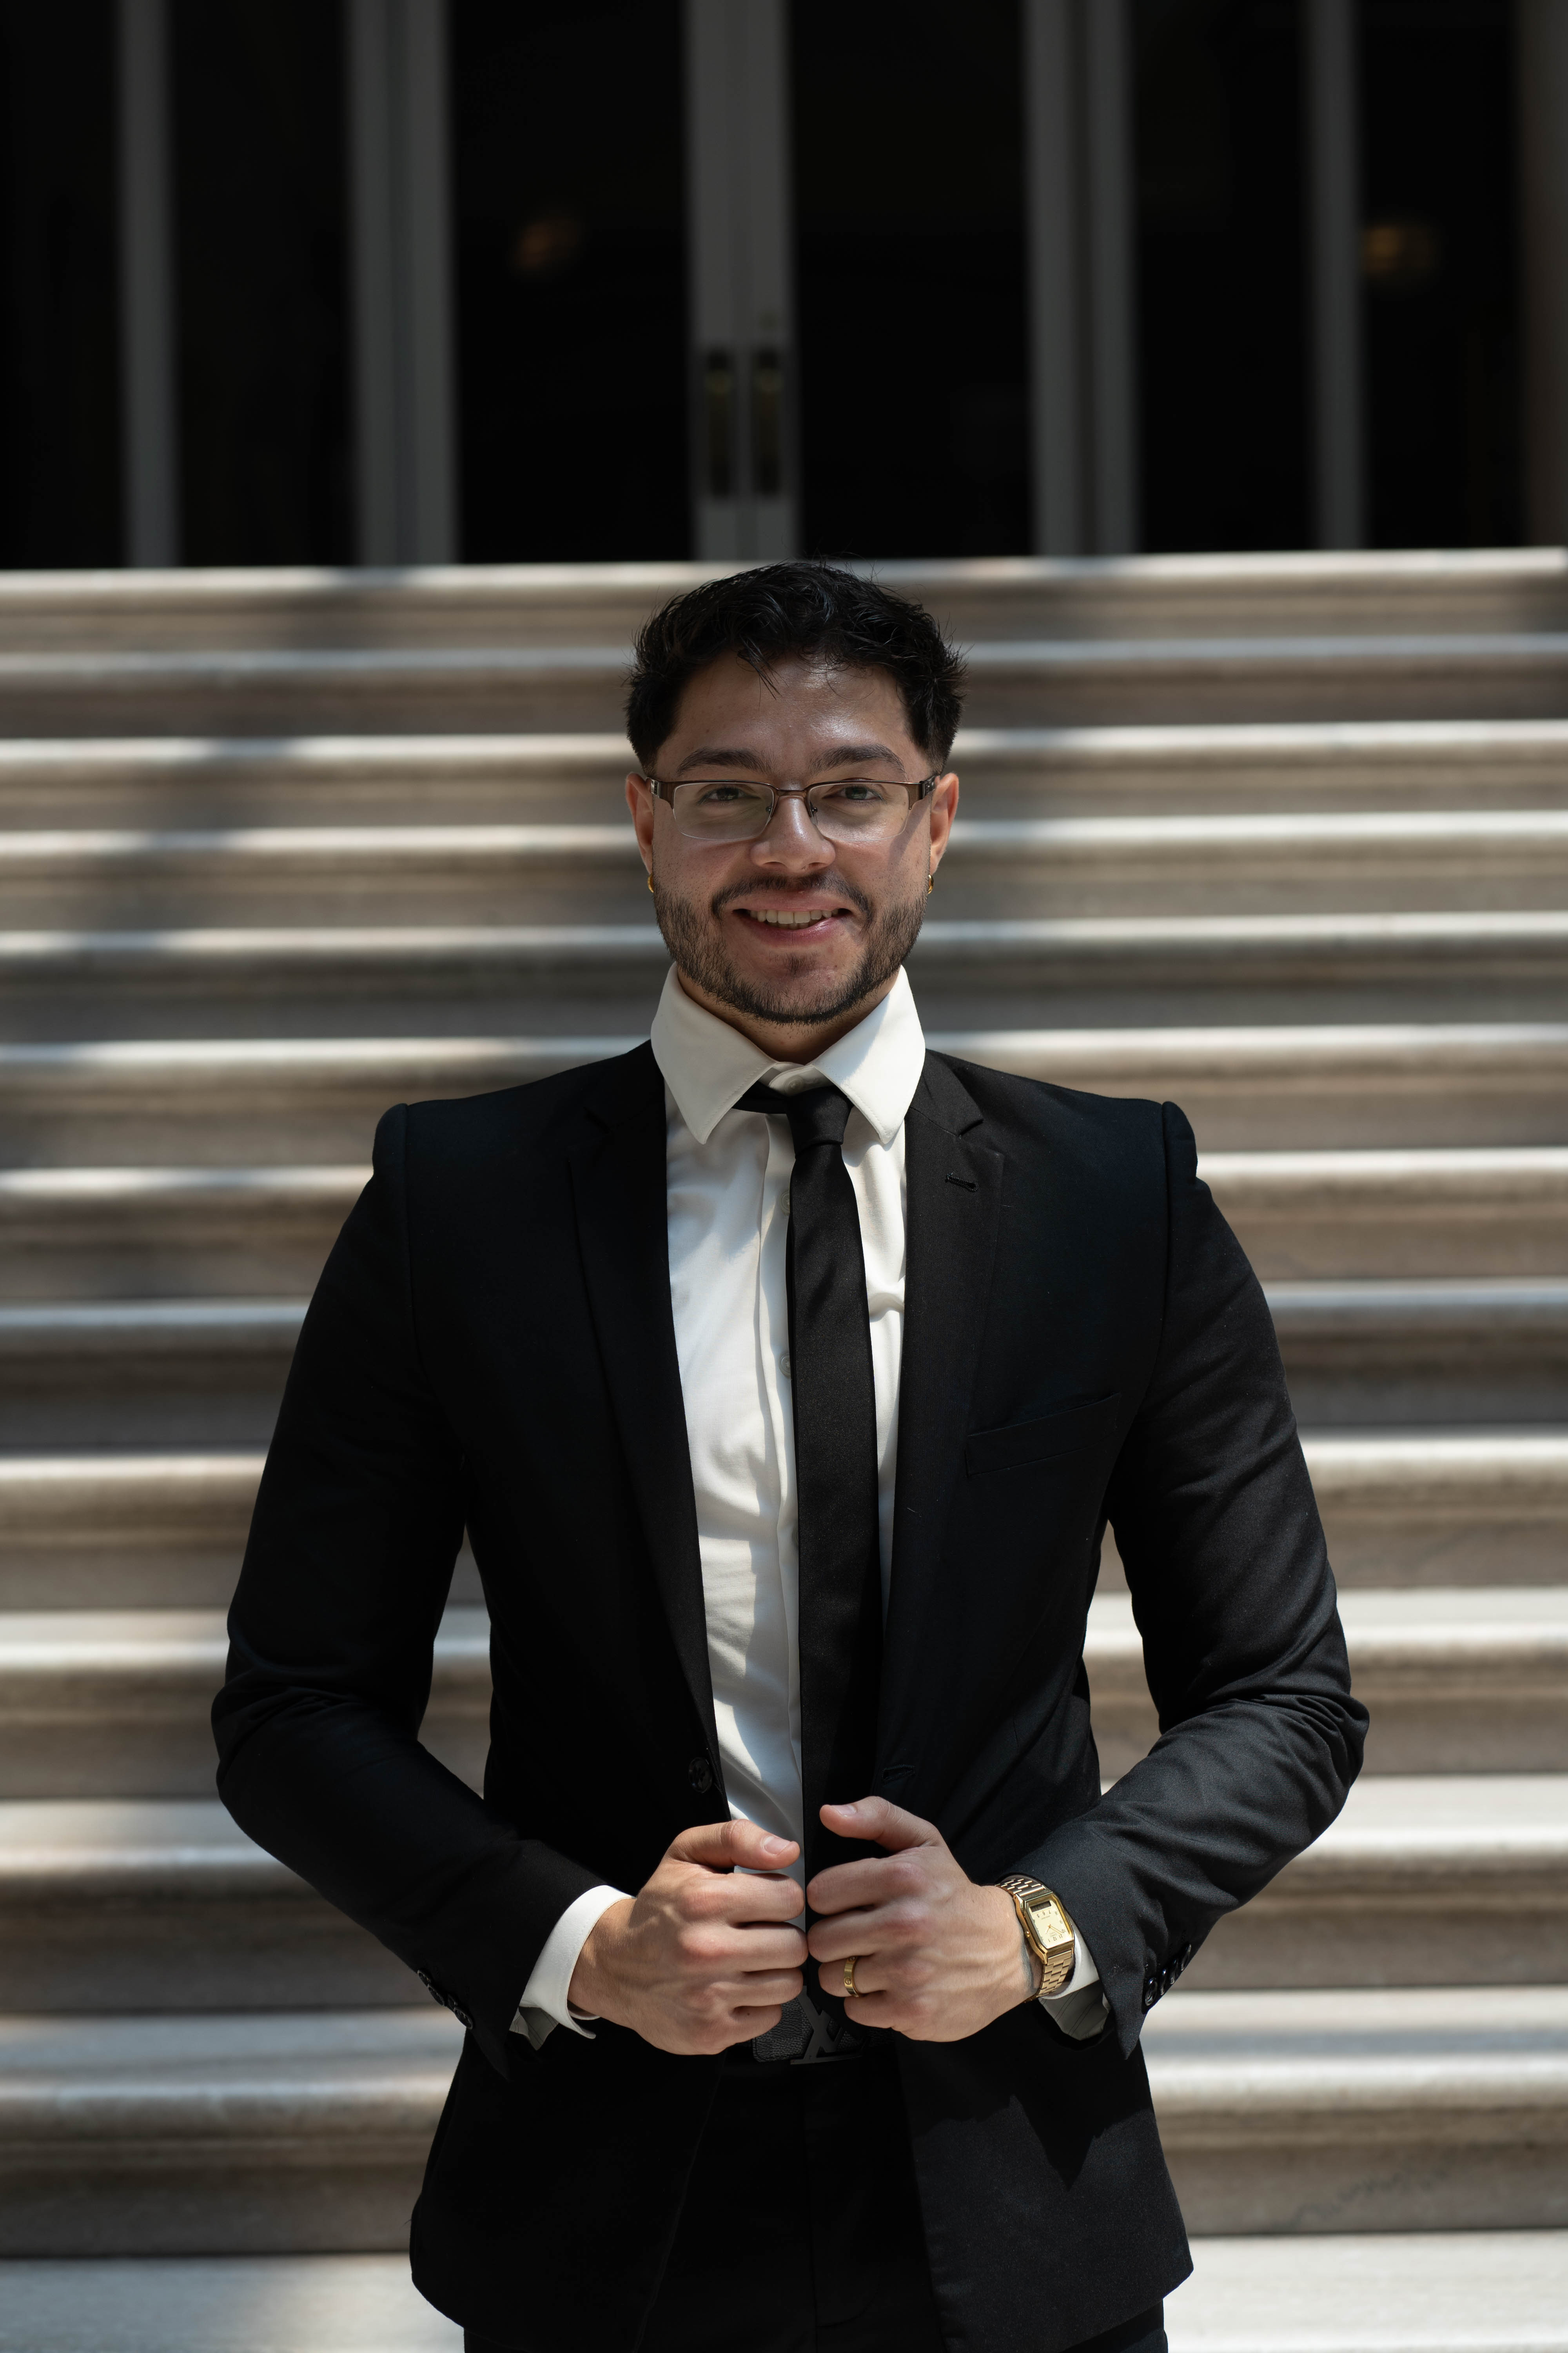
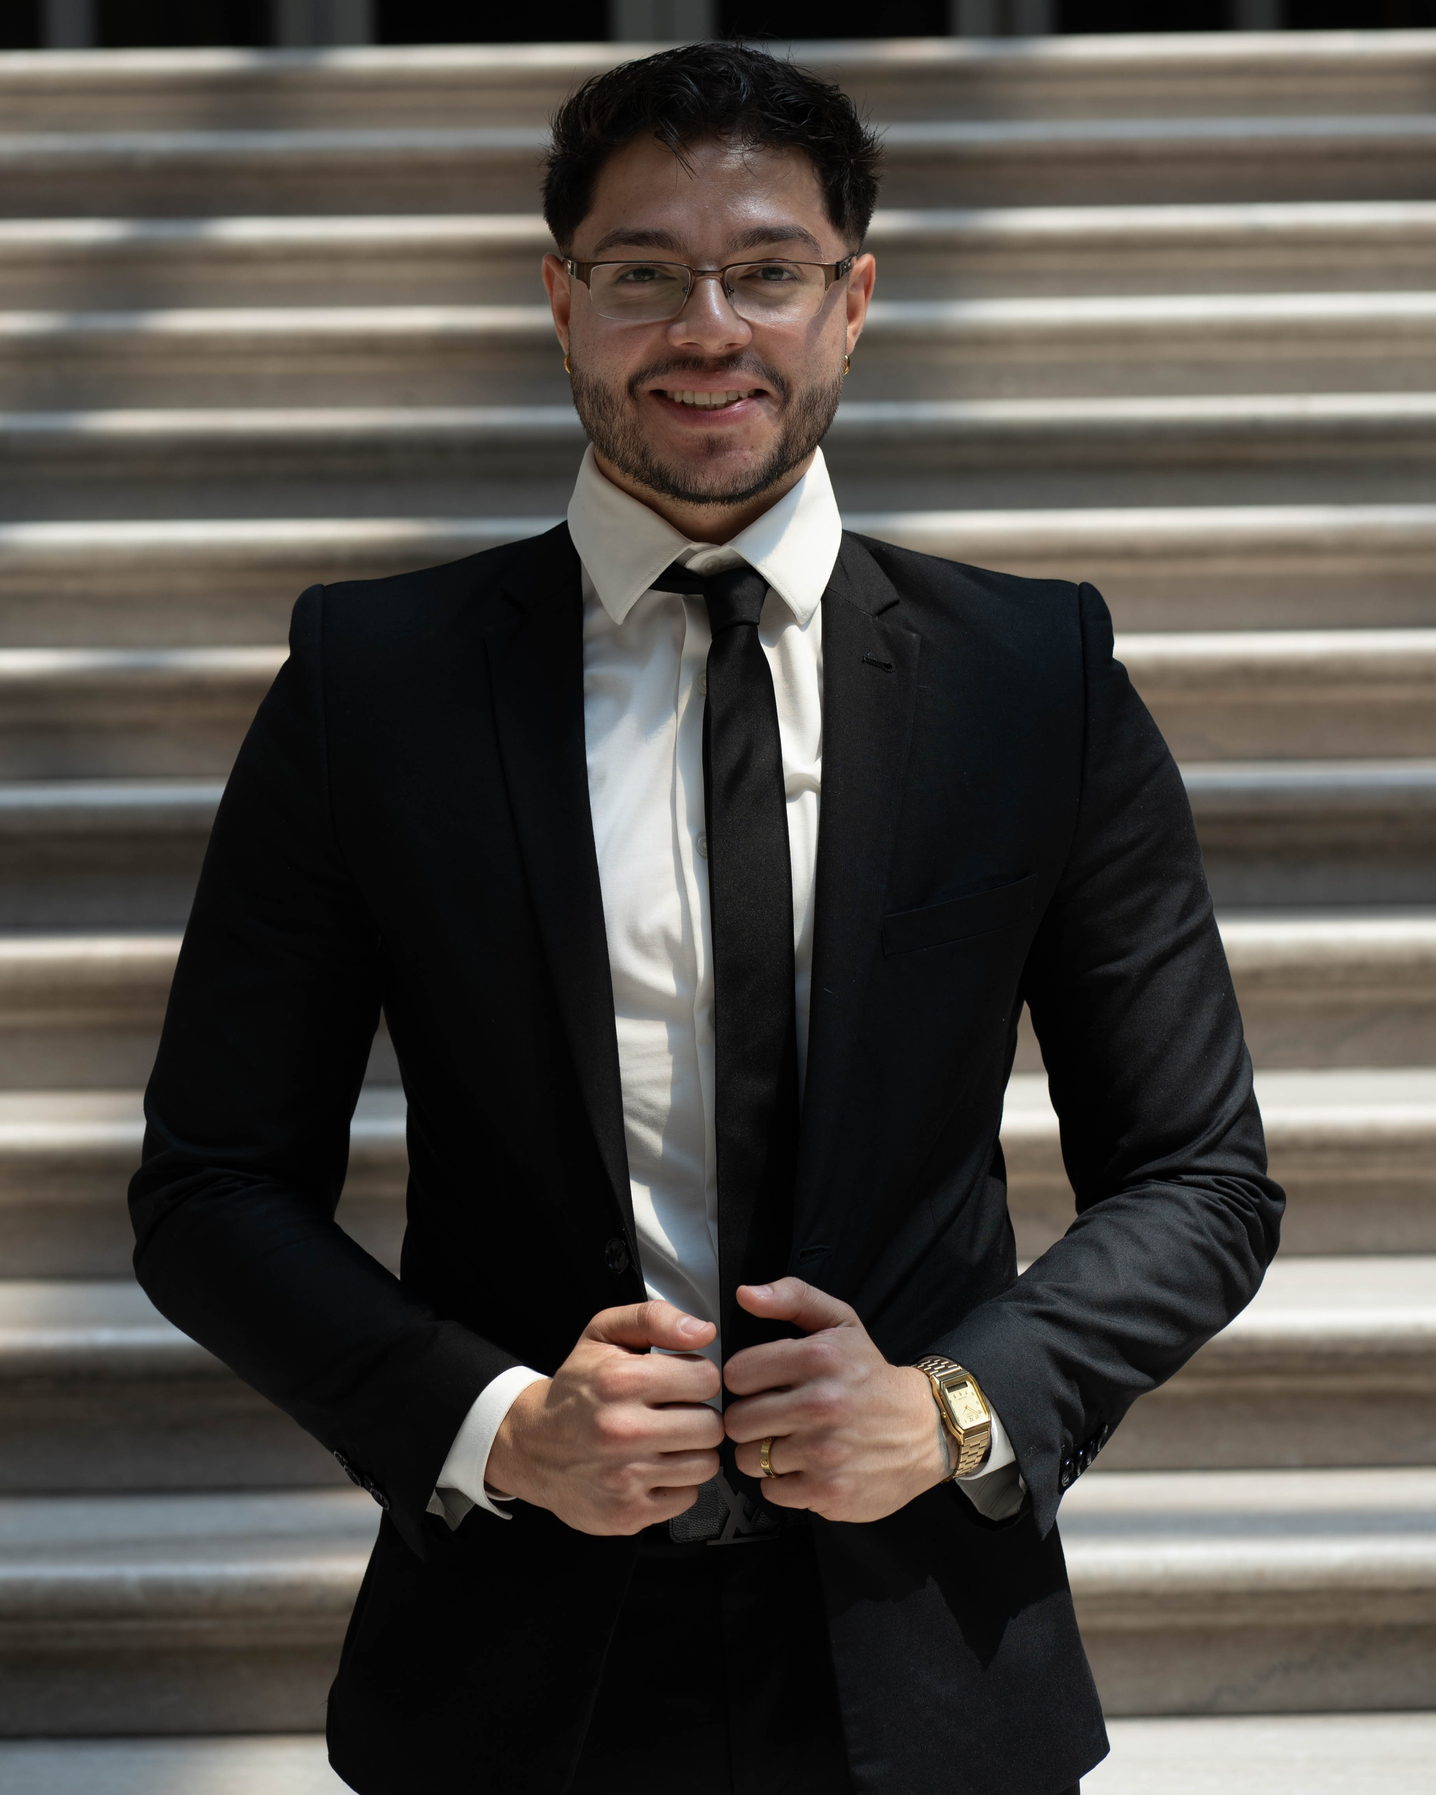
resized individual images and added Github link

diff --git a/index.html b/index.html
@@ -53,35 +53,46 @@
 
         <section class="Members">
             <h1>Members</h1>
+
+            <br><br>
+            <!-- Row 1 -->
             <div class="Members-Data">
                 <div class="Team-Member">
-                    <!-- Team Member 1-->
-                    <h2>Julie Dosher</h2>
-                    <a href="https://lemon-stone-0f92af610.3.azurestaticapps.net/" target="_blank">Personal Site</a>
+                    <h2>Jahi</h2>
+                    <img class="personal_image" src="" alt="">
+                    <a href="" target="_blank">Personal Site</a>
                 </div>
                 <div class="Team-Member">
-                    <!-- Team Member 2-->
                     <h2>Jose Montes De Oca Morfin</h2>
                     <img class="personal_image" src="images/jose.jpg" alt="Jose's picture">
                     <a href="https://josemdo.github.io/Getting-to-Know-Eachother/" target="_blank">Personal Site</a>
                 </div>
                 <div class="Team-Member">
-                    <!-- Team Member 3-->
+                    <h2>Julie Dosher</h2>
+                    <img class="personal_image" src="images/Julie.jpg" alt="Julie's picture">
+                    <p>
+                        <a href="https://lemon-stone-0f92af610.3.azurestaticapps.net/" target="_blank">Personal Site</a>
+                        <a> | </a>
+                        <a href="https://github.com/juliedosher" target="_blank">Github</a>
+                    </p>
+                </div>
+            </div>
+
+            <br><br><br>
+            <!-- Row 2 -->
+            <div class="Members-Data">
+                <div class="Team-Member">
                     <h2>Tyler Zenisek</h2>
-                    <img class="personal_image" src="images/Snapchat-900985532.jpg" alt="Tyler's Image">
+                    <img class="personal_image" src="images/tyler.jpg" alt="Tyler's Image">
                     <a href="https://node-js-azure-fa23-tyler-site.azurewebsites.net/" target="_blank">Personal Site</a>
                 </div>
                 <div class="Team-Member">
-                    <!-- Team Member 4-->
                     <h2>Matthew Senese</h2>
+                    <img class="personal_image" src="" alt="">
                     <a href="https://red-coast-075a6b510.3.azurestaticapps.net/" target="_blank">Personal Site</a>
                 </div>
-                <div>
-                    <!-- Team Member 5-->
-                    <h2>Member 5</h2>
-                    <a href="" target="_blank">Personal Site</a>
-                </div>
             </div>
+          
 
             <br>
             

diff --git a/style.css b/style.css
@@ -31,11 +31,6 @@ h2 {
     flex-direction: column;
     align-items: center;
 }
-img {
-    border: 2px solid black;
-    display: block;
-    width: 50vw;
-}
 
 .Portfolio {
     min-height: 80vh;
@@ -46,6 +41,9 @@ img {
     display: flex;
     flex-direction: column;
     align-items: center;
+}
+.Members h2 {
+    font-size: 22pt;
 }
 .Members-Data {
     display: flex;
@@ -60,8 +58,7 @@ img {
 }
 
 .personal_image {
-    width: 20vw;
-    height: 30vh;
+    width: 25vw;
     border-radius: 50px;
     margin-bottom: 20px;
     display: block;
